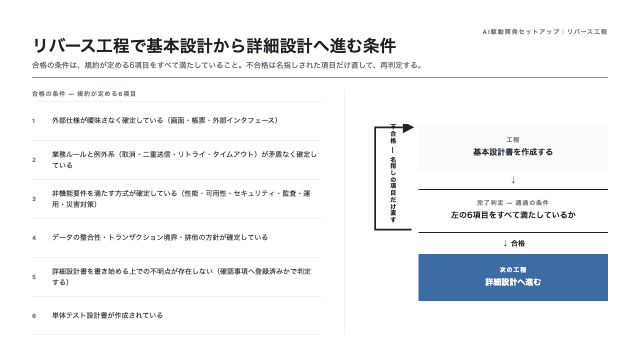
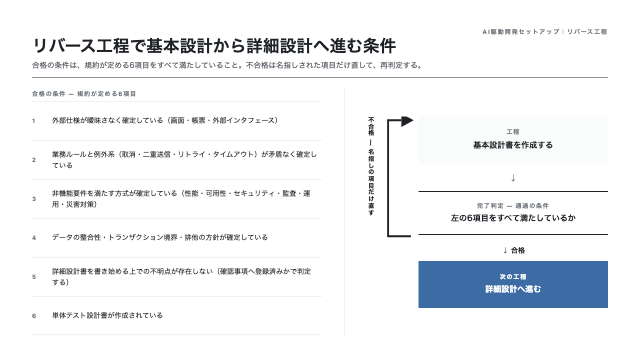
【修正】基本設計の完了判定スライドの戻り線とラベルの重なりを直す

Changed region(s): [[0.5625, 0.3056, 0.9688, 0.8556], [0.7188, 0.3361, 0.875, 0.4583]]

diff --git a/slides/リバース工程-基本設計の完了判定/解説スライド.html b/slides/リバース工程-基本設計の完了判定/解説スライド.html
@@ -17,9 +17,9 @@
 
   .flow-col{ display:flex; flex-direction:column; justify-content:center; min-height:0; border-left:1px solid var(--faint); padding-left:44px; }
   .flow-grid{ display:grid; grid-template-columns:104px 1fr; }
-  .loop{ grid-row:1 / 4; position:relative; }
-  .loop-svg{ position:absolute; inset:0; width:100%; height:100%; }
-  .loop-label{ position:absolute; inset:0; left:2px; display:flex; align-items:center; writing-mode:vertical-rl; white-space:nowrap; font-size:12px; font-weight:700; letter-spacing:.12em; color:var(--ink); }
+  .loop{ grid-row:1 / 4; display:flex; align-items:stretch; gap:10px; }
+  .loop-label{ flex:0 0 auto; display:flex; align-items:center; writing-mode:vertical-rl; white-space:nowrap; font-size:12px; font-weight:700; letter-spacing:.12em; color:var(--ink); }
+  .loop-svg{ flex:1 1 auto; min-width:0; height:100%; }
 
   .stage-box, .gate-box, .next-box{ grid-column:2; display:flex; flex-direction:column; align-items:center; justify-content:center; text-align:center; gap:7px; padding:12px; }
   .stage-box{ background:var(--surface-2); height:94px; }
@@ -61,11 +61,11 @@
       <div class="flow-col">
         <div class="flow-grid">
           <div class="loop">
-            <svg class="loop-svg" viewBox="0 0 60 130" preserveAspectRatio="none" role="presentation" aria-hidden="true">
-              <path d="M 52 126 H 10 V 4 H 42" fill="none" stroke="var(--ink)" stroke-width="2"></path>
-              <polygon points="42,-3 42,11 55,4" fill="var(--ink)"></polygon>
-            </svg>
             <span class="loop-label">不合格 — 名指しの項目だけ直す</span>
+            <svg class="loop-svg" viewBox="0 0 40 130" preserveAspectRatio="none" role="presentation" aria-hidden="true">
+              <path d="M 32 126 H 8 V 4 H 22" fill="none" stroke="var(--ink)" stroke-width="2"></path>
+              <polygon points="22,-3 22,11 35,4" fill="var(--ink)"></polygon>
+            </svg>
           </div>
           <div class="stage-box">
             <span class="lbl">工程</span>
